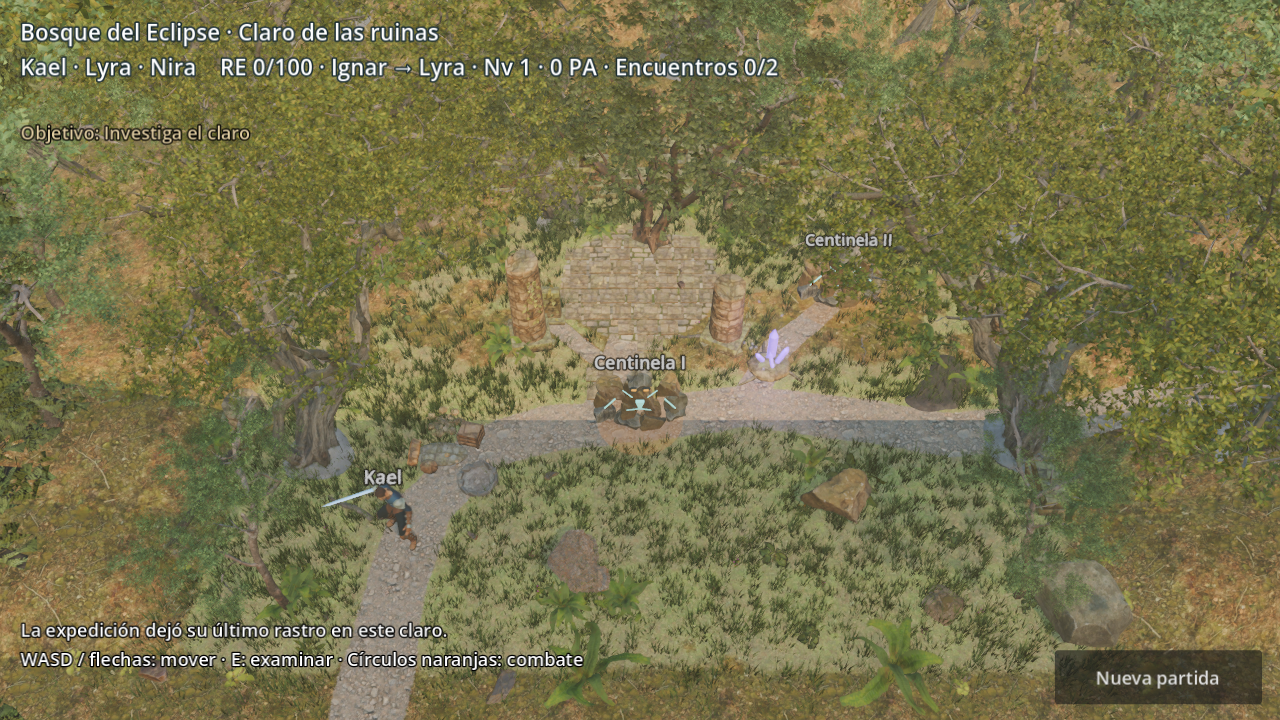
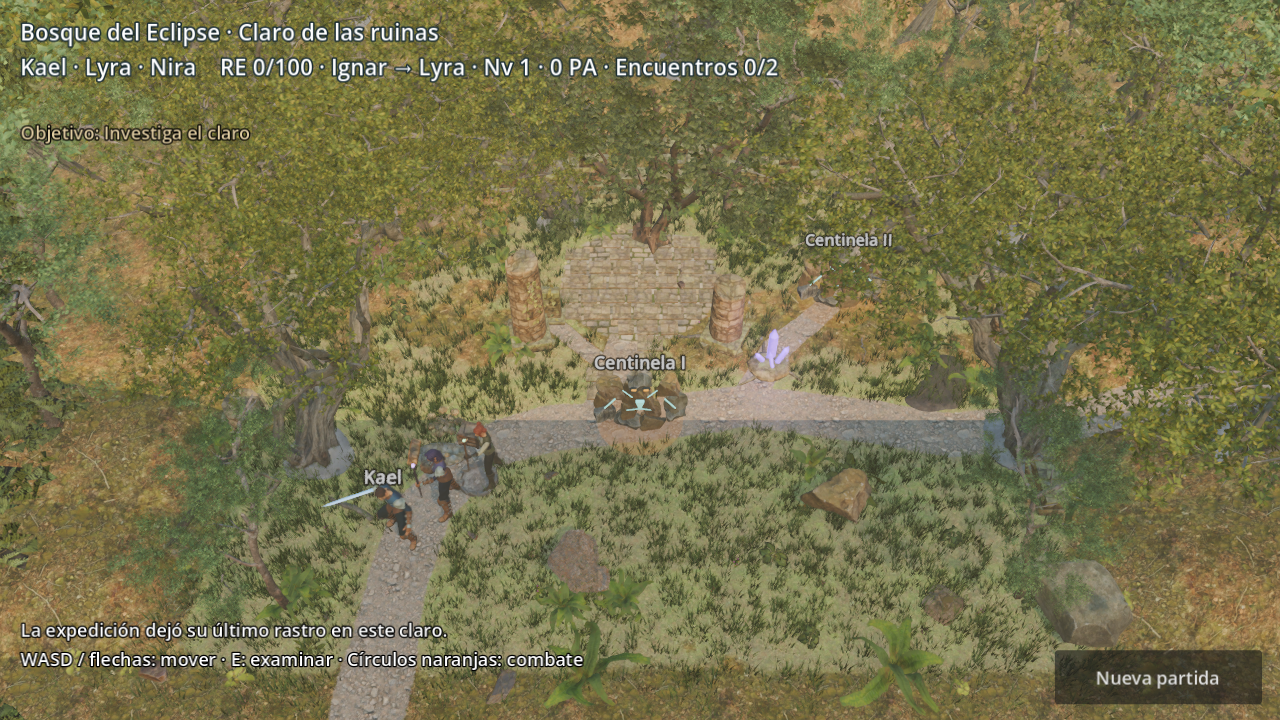
Add exploration followers, closer HD battle camera and texture load cache
- PartyFollowers: Lyra and Nira tread Kael's recorded path in exploration
  (presentation only, no bodies; reseed on teleport; HD party style only)
- HD arena frames the HD party closer; other styles keep the 1.3 camera
- Processed forest textures cached in user://texture_cache/, HD variants
  shared per session: battle/forest transitions ~4-5 s -> ~2 s
- party_hd_checks: followers, teleport, legacy exploration, framing at
  three resolutions (1043 checks, 0 failures)

Changed region(s): [[0.3125, 0.5806, 0.4062, 0.7333]]

diff --git a/docs/PARTY_HD.md b/docs/PARTY_HD.md
@@ -61,6 +61,12 @@ Los tres paquetes comparten un esqueleto de 65 huesos. Para cada héroe, el cons
 
 Los bastones van en la mano izquierda por dos motivos. En la pose de antorcha la derecha cuelga abierta, y los hechizos de la biblioteca se lanzan con la izquierda, así que el bastón acompaña el gesto. Caminar usa el trote: la exploración mueve a 4 m/s y la reproducción se limita a 2,5×. Con el paso tranquilo de la biblioteca (~1,1 m/s a escala) los pies patinarían. Con el trote (~6 m/s a escala) se reproduce a ~0,65× sin patinar.
 
+## Seguidores en exploración y cámara de combate
+
+- **Seguidores** (`world/party_followers.gd`): Lyra y Nira caminan detrás de Kael, a 1,2 y 2,3 m sobre el camino que él ha recorrido, de modo que no atraviesan muros que él rodeó. Son solo presentación: no tienen cuerpos físicos, no activan encuentros ni pistas y no cambian la misión. Si Kael aparece de golpe en otro punto (nueva partida, vuelta de un combate), se recolocan detrás de él. Se activan con el estilo `hd` y `visuals/party/followers` (activado por defecto; `false` los quita).
+- **Cámara de combate**: con el estilo `hd` la arena HD usa un encuadre más cercano (`BattleEnvironment.HD_PARTY_CAMERA`), con el mismo ángulo y los cuatro combatientes por encima del panel de órdenes. Los demás estilos conservan el encuadre de 1.3.
+- **Carga**: las texturas procesadas del bosque se guardan en `user://texture_cache/` (unos 80 MB en tu carpeta de usuario, no en el proyecto) y las variantes preparadas se comparten durante la partida. El primer arranque tarda lo mismo; los siguientes, ~3 s menos; entrar y salir de combates pasa de 4–5 s a ~2 s.
+
 ## Capturas (render real en Godot)
 
 - Grupo: [vista cercana](previews/party-hd/hd-party.png); combate a [1280×720](previews/party-hd/hd-battle-1280x720.png) y [960×640](previews/party-hd/hd-battle-960x640.png).
@@ -88,7 +94,7 @@ La diferencia cae dentro del ruido de medida, que ronda el ±10 % en este portá
   - los modelos de terceros están solo en la carpeta ignorada;
   - sin paquetes, cada héroe conserva su modelo actual;
   - los estilos `current` y `ps1` no cambian.
-- **Con los paquetes instalados (40 comprobaciones más):**
+- **Con los paquetes instalados (45 comprobaciones más):**
   - hash del glTF;
   - importación sin fallback;
   - 65 huesos y mallas con piel;
@@ -100,9 +106,11 @@ La diferencia cae dentro del ruido de medida, que ronda el ±10 % en este portá
   - clips, bucles y duraciones;
   - KO/Defend mantenidos y reinicio;
   - en combate, las mismas órdenes producen el mismo estado del motor que con los modelos actuales, y se conservan posiciones, eventos y reinicio;
-  - en exploración, Kael HD camina con la misma física y vuelve a Idle.
+  - en exploración, Kael HD camina con la misma física y vuelve a Idle;
+  - Lyra y Nira le siguen sin cuerpos físicos, caminan detrás por su estela, se paran con él y se recolocan si reaparece en otro punto; con los modelos anteriores no hay seguidores;
+  - la cámara de combate más cercana mantiene a los cuatro combatientes por encima del panel en 1280×720, 960×640 y 800×450.
 
-Total: **1038 comprobaciones, cero fallos** con los paquetes instalados (994 anteriores + 44). En un clon sin paquetes son 998.
+Total: **1043 comprobaciones, cero fallos** con los paquetes instalados (994 anteriores + 49). En un clon sin paquetes son 998.
 
 ## Límites
 

diff --git a/AGENTS.md b/AGENTS.md
@@ -1,6 +1,6 @@
 # Eclipse JRPG
 
-- Iteración 1.4 (grupo HD): `visuals/party/style="hd"` (predeterminado) usa a Kael, Lyra y Nira montados por `tools/blender/build_party_hd.py` desde paquetes Quaternius que el usuario descarga a mano. Paquetes y modelos montados solo en `assets/third_party/` (ignorado por Git; los paquetes, con `.gdignore`). `KaelModel.styled_path` vuelve a los modelos actuales si faltan. glTF con texturas aparte (comprimidas y con mipmaps), 65 huesos, arma unida a un hueso de mano, clips horneados con NLA y altura igual a la de cada héroe. Las suites hasta 1.3 se ejecutan con `party/style="current"` sin debilitar aserciones; `party_hd_checks.gd` añade 4 comprobaciones siempre y 40 con los paquetes (1038 en total; 998 sin paquetes). Capturas con `tools/capture_party_style.gd -- --only=hd`. Rendimiento móvil sin medir.
+- Iteración 1.4 (grupo HD): `visuals/party/style="hd"` (predeterminado) usa a Kael, Lyra y Nira montados por `tools/blender/build_party_hd.py` desde paquetes Quaternius que el usuario descarga a mano. Paquetes y modelos montados solo en `assets/third_party/` (ignorado por Git; los paquetes, con `.gdignore`). `KaelModel.styled_path` vuelve a los modelos actuales si faltan. glTF con texturas aparte (comprimidas y con mipmaps), 65 huesos, arma unida a un hueso de mano, clips horneados con NLA y altura igual a la de cada héroe. Las suites hasta 1.3 se ejecutan con `party/style="current"` sin debilitar aserciones; Con `hd`, `PartyFollowers` muestra a Lyra/Nira siguiendo la estela de Kael (sin cuerpos físicos, `visuals/party/followers`) y la arena HD usa `HD_PARTY_CAMERA`; los demás estilos conservan cámara y exploración. Texturas procesadas cacheadas en `user://texture_cache/` (clave por ruta+fecha del GLB o contenido); variantes HD en caché estática por sesión. `party_hd_checks.gd` añade 4 comprobaciones siempre y 45 con los paquetes (1043 en total; 998 sin paquetes). Capturas con `tools/capture_party_style.gd -- --only=hd`. Rendimiento móvil sin medir.
 
 - Iteración 1.3 (bosque HD): renderer **Forward+** (PC; `mobile` como respaldo de exportación). `visuals/forest/hd=true` activa `ForestArtHD` (`world/forest_art_hd.gd`) en exploración, arena de batalla, Centinelas y cristal; `false` restaura 1.1 y la arena anterior. Kit CC0 de Poly Haven en `assets/environments/eclipse_forest_hd/` (procedencia en `sources.json`, reducción con `tools/blender/prepare_forest_hd.py`, máscara con `tools/forest_hd_mask.py`); GLB con `embedded_image_handling=3`. Mismas transformaciones, colliders, anclas, cámaras y posiciones; el arte no crea cuerpos físicos. Las suites hasta 1.2 se ejecutan con `hd=false` sin debilitar aserciones; conservar sus 966 comprobaciones y las 28 de `forest_hd_checks.gd` (994). Capturas con `tools/capture_forest_hd.gd`. Recursos con licencia que prohíba redistribuirlos (p. ej. Quaternius/QAL) solo en `assets/third_party/` (ignorado por Git; el repositorio es público), instalados desde descargas manuales del usuario con `tools/install_quaternius.py`; no automatizar descargas de itch.io. Rendimiento móvil sin medir.
 

diff --git a/docs/GDD.md b/docs/GDD.md
@@ -188,7 +188,7 @@ Cada victoria concede +50 PA a los Guardianes equipados por héroes participante
 - Claro autocontenido de 18×14 unidades: suelo, sendero, árboles, rocas, dos columnas en ruinas y muros perimetrales con colisión. Arte procedural coherente con las primitivas del combate, sin assets externos, audio ni postprocesado pesado.
 - **Actualización 1.3 (presentación):** con `visuals/forest/hd=true` (predeterminado) el claro y la arena usan recursos fotoescaneados CC0 y Forward+ ([FOREST_HD.md](FOREST_HD.md)). No cambia reglas, colliders, anclas, encuentros, cámaras ni narrativa.
 - **Actualización 1.4 (presentación):** con `visuals/party/style="hd"` (predeterminado) Kael, Lyra y Nira usan modelos semirrealistas montados desde paquetes Quaternius instalados localmente ([PARTY_HD.md](PARTY_HD.md)); sin ellos se usan los anteriores. Kael lleva espada y Lyra y Nira bastón. No cambian reglas, posiciones, física ni narrativa.
-- Cámara ortográfica fija lejana, inclinada y sin giro libre. Se muestra el espacio completo. **Actualización 1.1 (presentación):** arte original compuesto ([FOREST_ART.md](FOREST_ART.md)) y cámara fija en perspectiva moderada (40°), con los mismos ejes de control, colliders, anclas y encuentros; la versión ortográfica queda como respaldo con `visuals/forest/renovated=false`. Kael es el único líder visible; Lyra y Nira siguen formando parte del grupo de combate. Esta representación sin seguidores es provisional.
+- Cámara ortográfica fija lejana, inclinada y sin giro libre. Se muestra el espacio completo. **Actualización 1.1 (presentación):** arte original compuesto ([FOREST_ART.md](FOREST_ART.md)) y cámara fija en perspectiva moderada (40°), con los mismos ejes de control, colliders, anclas y encuentros; la versión ortográfica queda como respaldo con `visuals/forest/renovated=false`. Kael es el único líder controlable; Lyra y Nira siguen formando parte del grupo de combate. **Actualización 1.4:** con el grupo HD, Lyra y Nira le siguen visualmente por su estela, sin colisiones ni efecto en encuentros o misión.
 - Movimiento con WASD/flechas mediante `CharacterBody3D`, velocidad configurable, normalización de diagonal, gravedad y colisión por `move_and_slide()`. El modelo gira hacia su desplazamiento. No hay salto, carrera ni navegación automática.
 - Entrada desacoplada mediante `set_movement_input(Vector2)` y `clear_movement_input()`, preparada para un futuro control táctil, todavía no implementado.
 - Dos Centinelas estáticos y visibles. Cada encuentro tiene ID, etiqueta, posición, radio de detección y enemigos configurables con `EncounterData`. Una `Area3D` próxima al marcador detecta al líder; el círculo naranja representa su proximidad. No hay encuentros aleatorios, persecución ni activación remota. Los IDs deben ser únicos dentro del claro.

diff --git a/README.md b/README.md
@@ -1,6 +1,6 @@
 # Eclipse JRPG
 
-**Iteración 1.4 — Grupo HD (activo por defecto):** [cómo se monta, licencia y límites](docs/PARTY_HD.md) · [combate](docs/previews/party-hd/hd-battle-1280x720.png) · [grupo](docs/previews/party-hd/hd-party.png). Kael, Lyra y Nira semirrealistas, a juego con el bosque HD. Se montan con piezas gratuitas de Quaternius (cuerpo, traje, pelo y animaciones), recoloreadas, con espada y bastones propios. Por la licencia, esos archivos **no se suben a Git**: hay que descargarlos a mano y montarlos con `tools/install_quaternius.py` y `tools/blender/build_party_hd.py`. Sin ellos, el juego usa los modelos anteriores sin dar error. `party/style="current"` en `[visuals]` vuelve a los anteriores. Mismas reglas, posiciones y física. **1038 comprobaciones, cero fallos** con los paquetes instalados (998 sin ellos); las 994 anteriores se mantienen. Mismo rendimiento que antes dentro del margen de medida; móvil no medido.
+**Iteración 1.4 — Grupo HD (activo por defecto):** [cómo se monta, licencia y límites](docs/PARTY_HD.md) · [combate](docs/previews/party-hd/hd-battle-1280x720.png) · [grupo](docs/previews/party-hd/hd-party.png). Kael, Lyra y Nira semirrealistas, a juego con el bosque HD. Se montan con piezas gratuitas de Quaternius (cuerpo, traje, pelo y animaciones), recoloreadas, con espada y bastones propios. Por la licencia, esos archivos **no se suben a Git**: hay que descargarlos a mano y montarlos con `tools/install_quaternius.py` y `tools/blender/build_party_hd.py`. Sin ellos, el juego usa los modelos anteriores sin dar error. `party/style="current"` en `[visuals]` vuelve a los anteriores. Lyra y Nira siguen a Kael por el mapa (solo presentación) y la cámara de combate está más cerca. Mismas reglas, posiciones y física. **1043 comprobaciones, cero fallos** con los paquetes instalados (998 sin ellos); las 994 anteriores se mantienen. Mismo rendimiento que antes dentro del margen de medida; móvil no medido.
 
 **Iteración 1.3 — Bosque HD (activo por defecto):** [qué cambia, licencias y límites](docs/FOREST_HD.md) · [capturas](docs/previews/forest-hd/). Renderer Forward+ con cielo HDRI, sombras suaves, SSAO/SSIL, niebla volumétrica, bloom y profundidad de campo; árboles, rocas, suelo y texturas fotoescaneados de Poly Haven (CC0); hierba instanciada con viento; Centinelas de roca escaneada y arena de batalla nueva. Misma jugabilidad, colliders, cámaras e historia. `forest/hd=false` en `[visuals]` vuelve a 1.1. **994 comprobaciones, cero fallos**; las 966 anteriores se mantienen. Personajes renovados en 1.4. En gráfica integrada: ~40 FPS en exploración y ~55 en batalla (1280×720); móvil no medido.
 
